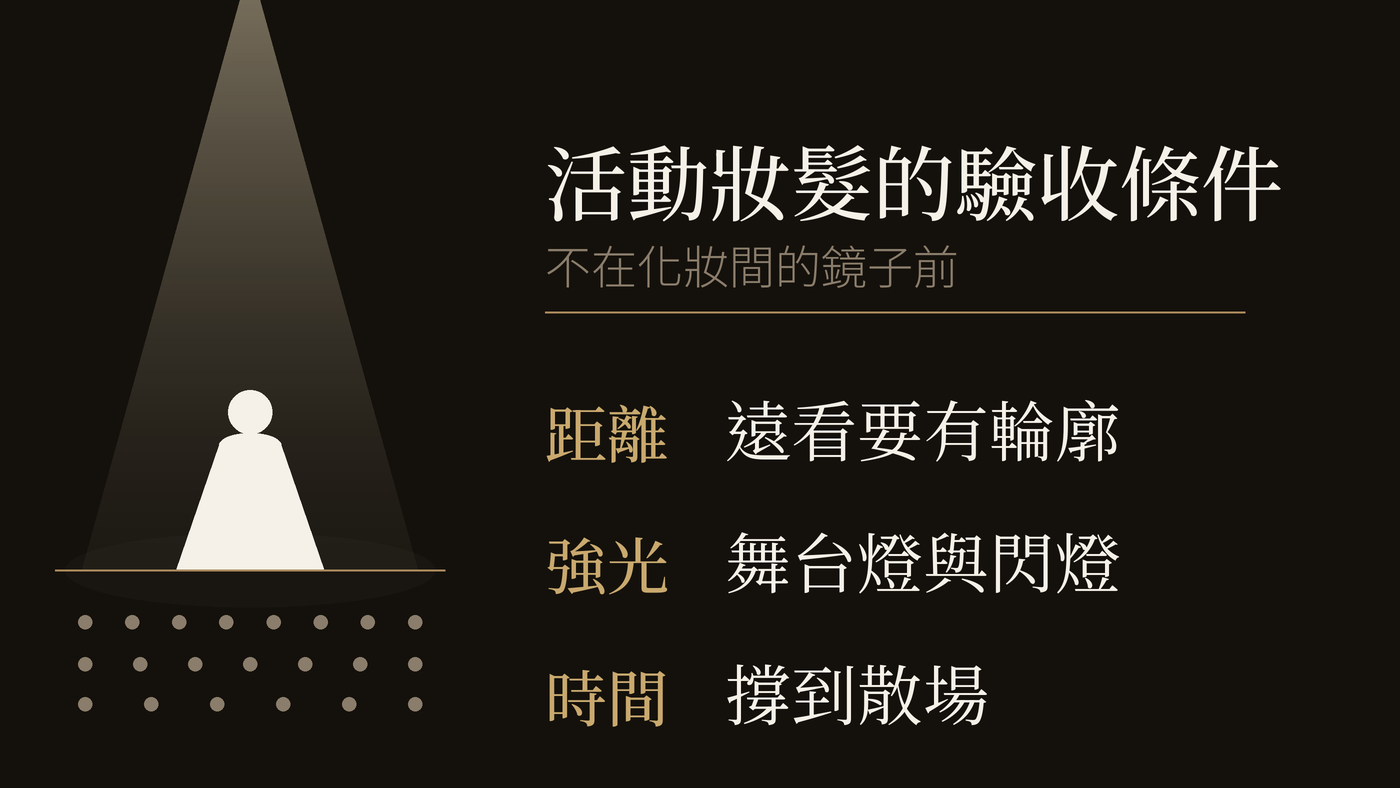
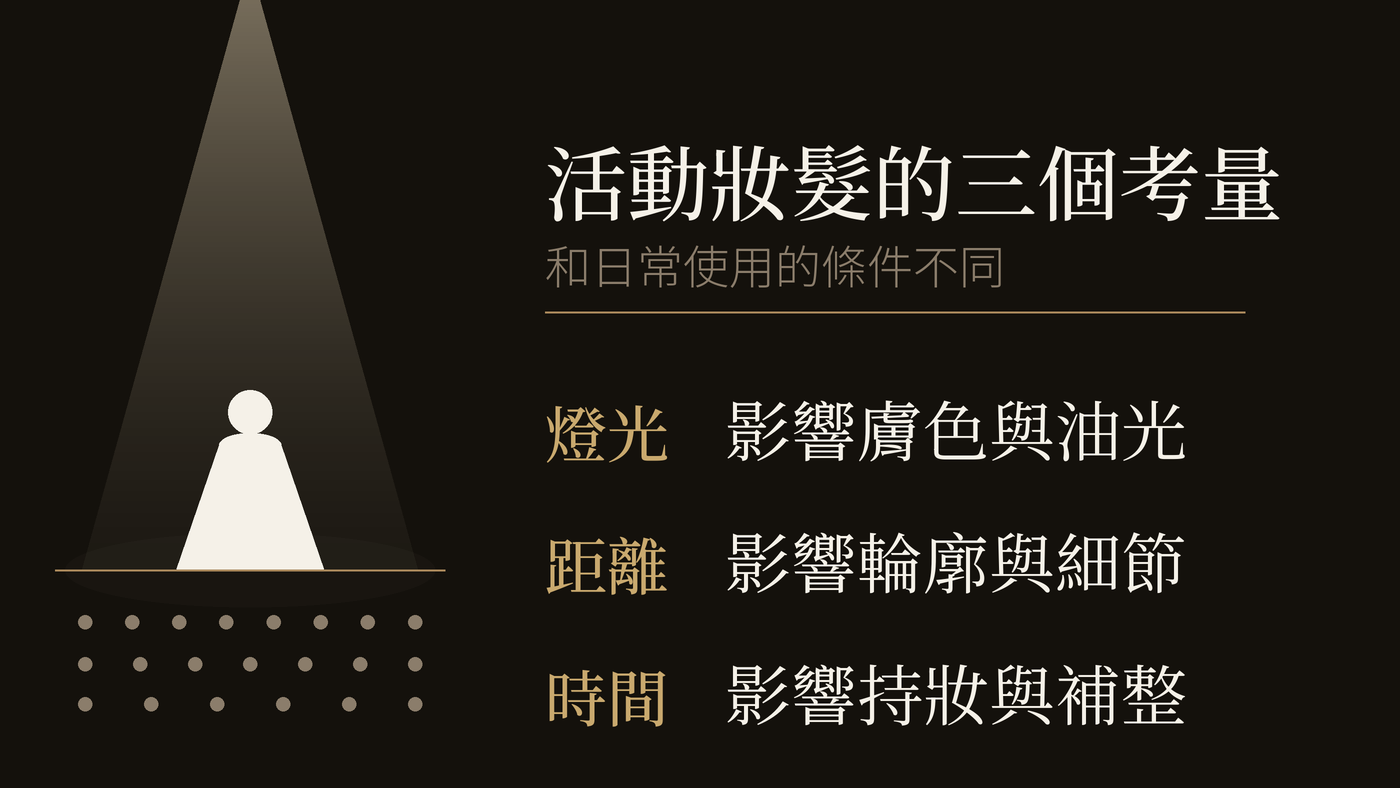
journal(B2)：三篇全面具體化，抽象結果詞換成實際處理的細節
09/04 第二份審閱，這份是對的：它依據我下午產的校稿檔寫，點名 18 項有 16 項
命中。（同日早上那份點名 18 個詞有 16 個根本不存在，只能採納 4 項。）

指南篇
- 開場刪「同樣的一張臉／三套完全不同的邏輯／這張臉接下來要去哪裡工作／
  你付的每一分鐘」，改成直接說要先知道場合
- 比較表整張重做：誰會看到你／距離與燈光／要撐多久／設計邏輯 → 常見場合／
  主要觀看方式／時間考量／主要處理
- 「距離愈遠燈光愈強…觀看者愈專業愈近」的對仗假對立整段換掉
- 預約段刪掉品牌敘事（妝髮是形象系統的一環／B.room 掛在 CHUN.EN 之下），
  與本篇搜尋意圖無關
- H2、引文、圖說、四題 FAQ 全改

商務篇
- 開場刪情境劇（追了半年的客戶／投資人／交給運氣／從運氣變成設計）
- 刪「遮疲態／留質地／收得剛好」整套框架與「狀態雜訊／熬夜的證據／面具感／
  最高級的修飾」，改成實際處理的位置
- 場合表的「為什麼值得」改成「需要多考慮什麼」，刪「對方正在評估可不可靠／
  鏡頭放大一切／妝髮是地基」
- 男士段刪「氣色處理的是把疲態調勻／眉型影響表情明確度」，改成看得到的細節

活動篇
- 開場刪整段尾牙情境劇
- 三條件表**刪掉「設計對策」整欄**（結構要放大／抗閃燈配方／修容補回被光吃掉的
  立體／持妝結構分層做底／撐到散場），改成「考量 × 實際影響」兩欄
- 「統籌題不是人數題」與企業排程細節（壓軸等六小時／濃淡對齊／時程表／
  風格規範／現場動線）收成交付層級的描述
- H2「三個物理條件怎麼改寫妝髮邏輯」→「還要多考慮三件事」

⚠ 示意圖跟著重畫：舊圖寫「驗收條件／距離·強光·時間」是文章的舊框架，
改完內文就對不上了。新圖＝燈光／距離／時間 × 影響什麼，ALT 同步。
標題一度寫成「活動妝髮要多考慮的」結尾懸在助詞上，已改「活動妝髮的三個考量」。
產圖腳本註明版面上限 9 字。

📌 我 08/25 拒絕過「設計對策」那一欄，當時引公開邊界文件說「深度是差異化」。
那個理由回答的是會不會洩漏方法，回答不了這份審閱的問題——它講的是不要把普通
事情講得比事情本身複雜，那是可讀性。我拿錯理由擋了一次。

三篇 FAQ 與 schema 全部同步，prepublish 0 必修。三篇仍 noindex。

diff --git a/journal/hair-makeup-service-guide.html b/journal/hair-makeup-service-guide.html
@@ -5,14 +5,14 @@
   <meta name="viewport" content="width=device-width, initial-scale=1.0, viewport-fit=cover" />
   <meta name="robots" content="noindex" /><!-- 草稿：Kay 審核後移除此行＋掛列表頁＋入 sitemap -->
   <title>台中妝髮怎麼選？日常妝髮、商務妝髮、活動妝髮差在哪｜CHUN.EN 觀點</title>
-  <meta name="description" content="同樣是「化妝＋做頭髮」，為什麼分成日常妝髮、商務妝髮、活動妝髮？因為妝髮的設計邏輯由場合決定：誰會看到你、距離多遠、燈光如何、要撐多久。日常妝髮標準服務時間約 90 分鐘，商務妝髮約 120 分鐘，活動妝髮約 150 分鐘，預約之前先分清楚。" />
+  <meta name="description" content="日常妝髮、商務妝髮與活動妝髮差在哪？主要看這次要去什麼場合、會不會拍攝，以及妝髮需要維持多久。日常妝髮標準服務時間約 90 分鐘，商務妝髮約 120 分鐘，活動妝髮約 150 分鐘，預約之前先分清楚。" />
   <meta name="theme-color" content="#14100B" />
   <link rel="icon" href="/favicon.ico" sizes="48x48" />
   <link rel="icon" href="/favicon-32.png" type="image/png" sizes="32x32" />
   <link rel="apple-touch-icon" href="/apple-touch-icon.png" />
   <link rel="canonical" href="https://chunen.tw/journal/hair-makeup-service-guide.html" />
   <meta property="og:title" content="台中妝髮怎麼選？日常妝髮、商務妝髮、活動妝髮差在哪" />
-  <meta property="og:description" content="妝髮的設計邏輯由場合決定：誰會看到你、距離多遠、燈光如何、要撐多久。" />
+  <meta property="og:description" content="場合、是否需要拍攝，以及要維持多久，決定了妝髮的做法。" />
   <meta property="og:image" content="https://chunen.tw/assets/og/hair-makeup-service-guide-og.jpg" />
   <meta property="og:image:width" content="1200" />
   <meta property="og:image:height" content="630" />
@@ -21,7 +21,7 @@
   <meta property="og:locale" content="zh_TW" />
   <meta name="twitter:card" content="summary_large_image" />
   <meta name="twitter:title" content="台中妝髮怎麼選？" />
-  <meta name="twitter:description" content="妝髮的設計邏輯由場合決定。預約之前先分清楚。" />
+  <meta name="twitter:description" content="場合、拍攝與維持時間，決定妝髮的做法。" />
   <meta name="twitter:image" content="https://chunen.tw/assets/og/hair-makeup-service-guide-og.jpg" />
   <link rel="preconnect" href="https://fonts.googleapis.com" />
   <link rel="preconnect" href="https://fonts.gstatic.com" crossorigin />
@@ -83,54 +83,55 @@
       <div class="keypoints rv">
         <p class="kp-t">In This Article · 本文重點</p>
         <ul>
-          <li>妝髮不是只有「濃淡」一個變數，場合決定了設計邏輯</li>
-          <li>三個問題分清楚你要哪一種：誰會看到你？距離多遠、什麼燈光？要撐多久？</li>
-          <li>預約時把場合講清楚，妝髮老師才能把時間花在對的地方</li>
+          <li>日常、商務與活動妝髮的差別，主要在使用場合、拍攝需求與需要維持的時間</li>
+          <li>聚會、簡報與舞台活動，妝感、髮型與持妝的處理方式不一樣</li>
+          <li>預約時提供場合、時間與是否需要拍攝，就能安排較適合的妝髮方式</li>
         </ul>
       </div>
 
       <div class="article-body rv">
-        <p class="article-lead">「我要預約化妝＋做頭髮。」，這句話對妝髮老師來說，其實是一句還沒說完的話。同樣的一張臉，要出席午餐約會、要進董事會簡報、還是要站上千人年會的舞台，妝髮的做法是三套完全不同的邏輯。<strong>妝髮服務分成日常、商務、活動三種，不是分價格等級，是分「這張臉接下來要去哪裡工作」。</strong>預約前分清楚，你付的每一分鐘才會花在對的地方。</p>
-        <p>台中妝髮服務可以依使用情境分成日常妝髮、商務妝髮與活動妝髮，差異主要在場合、觀看與拍攝條件、持妝需求，以及造型內容。答案不同，做法就不同，這也是預約時最值得先講清楚的事。</p>
+        <p class="article-lead">「我要預約化妝＋做頭髮。」對造型師來說，還需要再知道這次要去什麼場合。</p>
+        <p><strong>午餐約會、董事會簡報和年會舞台，對妝感、燈光、持妝與髮型的要求都不同。</strong>B.room 因此依使用情境區分日常、商務與活動妝髮，預約時先確認場合，再安排適合的做法。</p>
+        <p>台中妝髮服務可以依使用情境分成日常妝髮、商務妝髮與活動妝髮。差異主要在場合、是否需要拍攝、妝髮需要維持多久，以及造型內容。</p>
 
-        <h2>先問三個問題：場合如何<em>決定妝髮</em></h2>
-        <p>三種妝髮的差異，可以用三個問題拆出來：</p>
+        <h2>三種妝髮，<em>先看這三件事</em></h2>
+        <p>要分清楚自己需要哪一種，先看三件事：這次是什麼場合、主要是近距離還是舞台與鏡頭、妝髮需要維持多久。</p>
         <div class="tbl-scroll">
         <table>
-          <thead><tr><th></th><th>日常妝髮</th><th>商務妝髮</th><th>活動妝髮</th></tr></thead>
+          <thead><tr><th>項目</th><th>日常妝髮</th><th>商務妝髮</th><th>活動妝髮</th></tr></thead>
           <tbody>
-            <tr><td>誰會看到你</td><td>親友、日常社交</td><td>客戶、同事、與會者、鏡頭</td><td>台下觀眾、攝影機、媒體</td></tr>
-            <tr><td>距離與燈光</td><td>近距離、自然光</td><td>會議室距離、辦公室光與螢幕鏡頭</td><td>舞台距離、強光與閃燈</td></tr>
-            <tr><td>要撐多久</td><td>數小時</td><td>較長時間，中途未必有空檔補整</td><td>整場活動＋事後合照</td></tr>
-            <tr><td>設計邏輯</td><td>好看、像你</td><td>正式程度、精神、無妝感的整齊</td><td>遠看有輪廓、近拍經得起細看、上鏡不出油光</td></tr>
+            <tr><td>常見場合</td><td>聚會、約會、一般會面</td><td>簡報、會議、採訪、工作拍攝</td><td>講座、頒獎、品牌活動、晚宴</td></tr>
+            <tr><td>主要觀看方式</td><td>多為近距離</td><td>近距離互動，也可能有鏡頭</td><td>舞台、攝影與不同觀看距離</td></tr>
+            <tr><td>時間考量</td><td>一般出席時間</td><td>依工作行程與拍攝需求</td><td>依活動時間與流程</td></tr>
+            <tr><td>主要處理</td><td>膚況、眉眼、自然妝感、髮型</td><td>膚況、油光、眉眼、髮型輪廓、持妝</td><td>燈光、攝影、輪廓、髮型穩定與補整</td></tr>
             <tr><td>標準服務時間</td><td>約 90 分鐘</td><td>約 120 分鐘</td><td>約 150 分鐘</td></tr>
           </tbody>
         </table>
         </div>
-        <p>看懂了嗎，<strong>距離愈遠、燈光愈強，妝的結構就要愈明確；觀看者愈專業、愈近，妝就要收得愈乾淨。</strong>拿日常妝髮的做法上舞台，遠處的觀眾看到的是一張沒有輪廓的臉；拿舞台妝的做法進會議室，對面的客戶只會注意到你的妝。都不是老師手藝的問題，是設計邏輯用錯了場合。</p>
-        <blockquote>妝髮的分類不是分價格，是分「這張臉接下來要去哪裡工作」。</blockquote>
+        <p><strong>觀看距離、燈光與拍攝方式不同，妝髮的處理也會跟著改變。</strong>舞台要考慮遠距離與強光，商務場合則比較常是近距離互動或鏡頭拍攝，因此妝面、輪廓與髮型不會用完全相同的做法。</p>
+        <blockquote>日常、商務與活動妝髮的差別，在於使用場合與實際需求。</blockquote>
 
-        <h2>三種服務，各自<em>在解什麼</em></h2>
-        <p><strong>日常妝髮</strong>解的是「今天要好看」：聚會、約會、紀念日、私人拍攝。邏輯以你的喜好為主，風格可以玩，重點是像你、而且是狀態好的你。標準服務時間約 90 分鐘，依你的狀態、當天服裝與喜好完成妝髮。</p>
-        <p><strong>商務妝髮</strong>處理的是工作場合下的膚況、輪廓、髮型與持妝需求：重要簡報、面試、董事會、媒體採訪、<a href="makeup-hair-for-portraits.html">形象照拍攝</a>。邏輯以場合為主，遮疲態、留質地、收得剛好，目標是讓人先注意到你的狀態，而不是你的妝。標準服務時間約 120 分鐘，多出來的半小時花在鏡頭、燈光、工作時長與髮型細節的確認上。細節我們在〈<a href="business-hair-makeup.html">商務妝髮是什麼</a>〉單獨談。</p>
-        <p><strong>活動妝髮</strong>解的是「今天要撐住舞台」：年會尾牙、頒獎典禮、記者會、產品發表。邏輯以燈光與距離為主，結構要立體、持妝要整天、還要通得過閃光燈的考驗。標準服務時間約 150 分鐘，依造型複雜度、活動內容與是否需要現場補整微調。細節見〈<a href="event-hair-makeup.html">活動妝髮：上台之前的最後一關</a>〉。</p>
+        <h2>日常、商務、活動，<em>實際差在哪裡</em></h2>
+        <p><strong>日常妝髮</strong>主要用在聚會、約會、紀念日與一般出席。會依本人喜好、服裝與當天場合調整膚況、眉眼與髮型，標準服務時間約 90 分鐘。</p>
+        <p><strong>商務妝髮</strong>處理的是工作場合下的膚況、輪廓、髮型與持妝需求：重要簡報、面試、董事會、媒體採訪、<a href="makeup-hair-for-portraits.html">形象照拍攝</a>。除了膚況與眉眼，還會一起考慮油光、妝面質地、髮型輪廓與持妝，標準服務時間約 120 分鐘。細節我們在〈<a href="business-hair-makeup.html">商務妝髮是什麼</a>〉單獨談。</p>
+        <p><strong>活動妝髮</strong>常見於年會尾牙、頒獎典禮、記者會與產品發表。會依服裝、舞台燈光、攝影、活動時間與是否需要補整調整造型，標準服務時間約 150 分鐘。細節見〈<a href="event-hair-makeup.html">活動妝髮：上台之前的最後一關</a>〉。</p>
 
-        <h2>預約時，把這三件事<em>講清楚</em></h2>
-        <p>分類是我們的工作，你只需要在預約時講清楚三件事：<strong>什麼場合</strong>（開會？上台？拍攝？）、<strong>什麼時間到什麼時間</strong>（妝要撐多久、中途能不能補）、<strong>之後還有沒有下一場</strong>（白天簡報＋晚上晚宴，把兩場時間都講清楚，怎麼銜接由老師依妝況與活動內容安排）。這三件事決定了老師的產品選擇、手法與時間配置，講得愈清楚，你坐上椅子之後的每一分鐘愈值錢。</p>
-        <p>在 <a href="../b-room.html">B.room</a>，預約時我們會先確認場合、時間，以及當天是否還有其他行程，再安排適合的妝髮方式。我們的立場一直沒變：<strong>妝髮是形象系統的一環，不是單獨的美容項目</strong>，它要跟你的服裝、你的場合、你要傳遞的角色一起被設計。這也是為什麼 B.room 掛在 CHUN.EN 形象美學之下，而不是一間獨立的化妝室。</p>
+        <h2>預約時<em>要提供什麼</em></h2>
+        <p>預約時提供場合、活動時間，以及當天是否還有其他行程即可。如果同一天有簡報和晚宴，也可以一起說明，我們會依行程與當下妝況安排適合的方式。</p>
+        <p>實際的服務內容與時間，會在 <a href="../b-room.html">B.room</a> 預約時一併確認。</p>
 
         <figure class="article-fig crop45">
           <picture style="display:block"><source type="image/webp" srcset="../assets/gallery/journal/hair-makeup-service-guide-inline-v1-760.webp 760w, ../assets/gallery/journal/hair-makeup-service-guide-inline-v1-1240.webp 1240w" sizes="(max-width: 700px) calc(100vw - 40px), 620px" /><img src="../assets/gallery/journal/hair-makeup-service-guide-inline-v1-1400.jpg" alt="妝髮進行中的工作現場：客戶在鏡台前，造型師正在調整髮流" width="1400" height="1867" loading="lazy" /></picture>
-          <figcaption>同一張臉，三種場合，三套邏輯，設計對了，妝才會替你工作。（CHUN.EN 工作現場）</figcaption>
+          <figcaption>B.room 依不同場合調整妝感與髮型。（CHUN.EN 工作現場）</figcaption>
         </figure>
 
         <h2>常見<em>問題</em></h2>
         <div class="faq">
-          <details><summary>台中妝髮服務怎麼選？日常、商務、活動差在哪？<span class="mark">+</span></summary><div class="a">三種不是價格等級，而是這張臉接下來要去哪裡工作。先問三個問題就能分清楚：誰會看到你、距離多遠與什麼燈光、要撐多久。午餐約會、董事會簡報、千人年會舞台，妝髮是三套完全不同的設計邏輯。</div></details>
+          <details><summary>台中妝髮服務怎麼選？日常、商務、活動差在哪？<span class="mark">+</span></summary><div class="a">日常、商務與活動妝髮主要依使用場合區分。聚會與一般出席多屬日常妝髮；簡報、會議、採訪與工作拍攝多屬商務妝髮；講座、頒獎、品牌活動與晚宴則較常使用活動妝髮。</div></details>
           <details><summary>一次妝髮要做多久？<span class="mark">+</span></summary><div class="a">日常妝髮標準服務時間約 90 分鐘，商務妝髮約 120 分鐘，活動妝髮約 150 分鐘。商務場合多出來的時間花在鏡頭、燈光、工作時長與髮型細節的確認上；活動妝髮則會依造型複雜度與現場流程微調。若需要的是舞台、主題性或特殊造型，屬於主題妝髮造型的範圍，時間與內容另外溝通。企業團體梳化依人數與現場流程另行安排。</div></details>
-          <details><summary>我不確定自己的場合算哪一種，怎麼辦？<span class="mark">+</span></summary><div class="a">直接把場合描述給我們就好，「下週三早上對投資人簡報，下午有媒體拍照」這樣一句話，就足以讓我們判斷該用哪套邏輯、需要多少時間。分類是內部的設計語言，不是要你先學會的術語。</div></details>
-          <details><summary>男士也適用這三種分類嗎？<span class="mark">+</span></summary><div class="a">完全適用。男士商務妝髮的重點不在「有沒有化妝」，而是膚色均勻度、眉型、髮型輪廓與油光控制，做完通常看不出上過妝。上台與上鏡的男士尤其需要，強光下的疲態與油光比女士更無所遁形。</div></details>
-          <details><summary>可以到府或到公司服務嗎？<span class="mark">+</span></summary><div class="a">三種都可以在勤美店或你指定的地點完成。商務與活動場合的時間壓力最大，通常也最適合到點服務，在你的辦公室或活動後台完成，省去移動風險。實際的到點範圍、交通與開始時間，在預約時一併確認。</div></details>
+          <details><summary>我不確定自己的場合算哪一種，怎麼辦？<span class="mark">+</span></summary><div class="a">直接告訴我們場合、時間，以及是否有拍攝或下一場行程即可，我們會再確認適合的服務類型與時間。</div></details>
+          <details><summary>男士也適用這三種分類嗎？<span class="mark">+</span></summary><div class="a">男士也可以依場合安排日常、商務或活動妝髮。常見處理包括膚色不均、油光、眉型與髮型輪廓；需要拍攝或上台時，再依現場燈光與鏡頭需求調整。多數情況會以自然、看不出明顯妝感為主。</div></details>
+          <details><summary>可以到府或到公司服務嗎？<span class="mark">+</span></summary><div class="a">可以在勤美店或指定地點服務。若希望在公司、活動場地或其他指定地點完成妝髮，預約時提供地點與正式行程時間，我們會再確認服務範圍、交通與開始時間。</div></details>
         </div>
 
       </div>
@@ -179,7 +180,7 @@
     "@context": "https://schema.org",
     "@type": "Article",
     "headline": "台中妝髮怎麼選？日常妝髮、商務妝髮、活動妝髮差在哪",
-    "description": "妝髮的設計邏輯由場合決定：誰會看到你、距離多遠、燈光如何、要撐多久。三種妝髮服務的分類指南。",
+    "description": "場合、是否需要拍攝，以及要維持多久，決定了妝髮的做法。三種妝髮服務的分類指南。",
     "image": "https://chunen.tw/assets/gallery/journal/hair-makeup-service-guide-hero-full-v1-1400.jpg",
     "author": {"@type": "Person", "@id": "https://chunen.tw/author/zoey-wu.html#zoey", "name": "吳惇恩", "alternateName": "Zoey Wu", "jobTitle": "Founder & Brand Director", "image": "https://chunen.tw/assets/images/zoey-author-640.jpg", "url": "https://chunen.tw/author/zoey-wu.html"},
     "publisher": {"@type": "Organization", "@id": "https://chunen.tw/#business", "name": "CHUN.EN 形象美學", "logo": {"@type": "ImageObject", "url": "https://chunen.tw/icon-512.png"}},
@@ -198,11 +199,11 @@
     "@context": "https://schema.org",
     "@type": "FAQPage",
     "mainEntity": [
-      {"@type": "Question", "name": "台中妝髮服務怎麼選？日常、商務、活動差在哪？", "acceptedAnswer": {"@type": "Answer", "text": "三種不是價格等級，而是這張臉接下來要去哪裡工作。先問三個問題就能分清楚：誰會看到你、距離多遠與什麼燈光、要撐多久。午餐約會、董事會簡報、千人年會舞台，妝髮是三套完全不同的設計邏輯。"}},
+      {"@type": "Question", "name": "台中妝髮服務怎麼選？日常、商務、活動差在哪？", "acceptedAnswer": {"@type": "Answer", "text": "日常、商務與活動妝髮主要依使用場合區分。聚會與一般出席多屬日常妝髮；簡報、會議、採訪與工作拍攝多屬商務妝髮；講座、頒獎、品牌活動與晚宴則較常使用活動妝髮。"}},
       {"@type": "Question", "name": "一次妝髮要做多久？", "acceptedAnswer": {"@type": "Answer", "text": "日常妝髮標準服務時間約 90 分鐘，商務妝髮約 120 分鐘，活動妝髮約 150 分鐘。商務場合多出來的時間花在鏡頭、燈光、工作時長與髮型細節的確認上；活動妝髮則會依造型複雜度與現場流程微調。若需要的是舞台、主題性或特殊造型，屬於主題妝髮造型的範圍，時間與內容另外溝通。企業團體梳化依人數與現場流程另行安排。"}},
-      {"@type": "Question", "name": "我不確定自己的場合算哪一種，怎麼辦？", "acceptedAnswer": {"@type": "Answer", "text": "直接把場合描述給我們就好，「下週三早上對投資人簡報，下午有媒體拍照」這樣一句話，就足以讓我們判斷該用哪套邏輯、需要多少時間。分類是內部的設計語言，不是要你先學會的術語。"}},
-      {"@type": "Question", "name": "男士也適用這三種分類嗎？", "acceptedAnswer": {"@type": "Answer", "text": "完全適用。男士商務妝髮的重點不在「有沒有化妝」，而是膚色均勻度、眉型、髮型輪廓與油光控制，做完通常看不出上過妝。上台與上鏡的男士尤其需要，強光下的疲態與油光比女士更無所遁形。"}},
-      {"@type": "Question", "name": "可以到府或到公司服務嗎？", "acceptedAnswer": {"@type": "Answer", "text": "三種都可以在勤美店或你指定的地點完成。商務與活動場合的時間壓力最大，通常也最適合到點服務，在你的辦公室或活動後台完成，省去移動風險。實際的到點範圍、交通與開始時間，在預約時一併確認。"}}
+      {"@type": "Question", "name": "我不確定自己的場合算哪一種，怎麼辦？", "acceptedAnswer": {"@type": "Answer", "text": "直接告訴我們場合、時間，以及是否有拍攝或下一場行程即可，我們會再確認適合的服務類型與時間。"}},
+      {"@type": "Question", "name": "男士也適用這三種分類嗎？", "acceptedAnswer": {"@type": "Answer", "text": "男士也可以依場合安排日常、商務或活動妝髮。常見處理包括膚色不均、油光、眉型與髮型輪廓；需要拍攝或上台時，再依現場燈光與鏡頭需求調整。多數情況會以自然、看不出明顯妝感為主。"}},
+      {"@type": "Question", "name": "可以到府或到公司服務嗎？", "acceptedAnswer": {"@type": "Answer", "text": "可以在勤美店或指定地點服務。若希望在公司、活動場地或其他指定地點完成妝髮，預約時提供地點與正式行程時間，我們會再確認服務範圍、交通與開始時間。"}}
     ]
   }
   </script>

diff --git a/journal/event-hair-makeup.html b/journal/event-hair-makeup.html
@@ -5,14 +5,14 @@
   <meta name="viewport" content="width=device-width, initial-scale=1.0, viewport-fit=cover" />
   <meta name="robots" content="noindex" /><!-- 草稿：Kay 審核後移除此行＋掛列表頁＋入 sitemap -->
   <title>活動妝髮：上台之前的最後一關｜CHUN.EN 觀點</title>
-  <meta name="description" content="年會尾牙、頒獎典禮、記者會、產品發表，活動妝髮要處理的是舞台燈、攝影機與長時間的續航。談活動妝髮和日常妝的三個本質差異：距離、強光、時間，以及企業活動的妝髮統籌怎麼安排。" />
+  <meta name="description" content="活動妝髮常見於年會尾牙、頒獎、記者會、品牌發表與講座。相較日常妝髮，會多考慮舞台燈、攝影、觀看距離、活動時間與是否需要補整。標準服務時間約 150 分鐘。" />
   <meta name="theme-color" content="#14100B" />
   <link rel="icon" href="/favicon.ico" sizes="48x48" />
   <link rel="icon" href="/favicon-32.png" type="image/png" sizes="32x32" />
   <link rel="apple-touch-icon" href="/apple-touch-icon.png" />
   <link rel="canonical" href="https://chunen.tw/journal/event-hair-makeup.html" />
   <meta property="og:title" content="活動妝髮：上台之前的最後一關" />
-  <meta property="og:description" content="活動妝髮要處理的是舞台燈、攝影機與長時間的續航。" />
+  <meta property="og:description" content="活動妝髮會多考慮舞台燈、攝影、觀看距離與活動時間。" />
   <meta property="og:image" content="https://chunen.tw/assets/gallery/journal/event-hair-makeup-diagram-v1-1400.png" />
   <meta property="og:image:width" content="1400" />
   <meta property="og:image:height" content="788" />
@@ -21,7 +21,7 @@
   <meta property="og:locale" content="zh_TW" />
   <meta name="twitter:card" content="summary_large_image" />
   <meta name="twitter:title" content="活動妝髮：上台之前的最後一關" />
-  <meta name="twitter:description" content="活動妝髮要處理的是舞台燈、攝影機與長時間的續航。" />
+  <meta name="twitter:description" content="活動妝髮會多考慮舞台燈、攝影、觀看距離與活動時間。" />
   <meta name="twitter:image" content="https://chunen.tw/assets/gallery/journal/event-hair-makeup-diagram-v1-1400.png" />
   <link rel="preconnect" href="https://fonts.googleapis.com" />
   <link rel="preconnect" href="https://fonts.gstatic.com" crossorigin />
@@ -77,47 +77,48 @@
 
     <div class="wrap article-wrap">
       <div class="jcard-media rv" style="aspect-ratio: 16/9; overflow: hidden; margin-bottom: clamp(2.5rem, 6vh, 4rem);">
-        <picture style="display:block;width:100%;height:100%"><source type="image/webp" srcset="../assets/gallery/journal/event-hair-makeup-diagram-v1-760.webp 760w, ../assets/gallery/journal/event-hair-makeup-diagram-v1-1240.webp 1240w" sizes="min(940px, calc(100vw - 48px))" /><img src="../assets/gallery/journal/event-hair-makeup-diagram-v1-1400.png" alt="示意圖：活動妝髮的驗收條件不在化妝間的鏡子前，而在距離、強光與時間三個物理條件上" style="width:100%;height:100%;object-fit:cover;" width="1400" height="788" fetchpriority="high" /></picture>
+        <picture style="display:block;width:100%;height:100%"><source type="image/webp" srcset="../assets/gallery/journal/event-hair-makeup-diagram-v1-760.webp 760w, ../assets/gallery/journal/event-hair-makeup-diagram-v1-1240.webp 1240w" sizes="min(940px, calc(100vw - 48px))" /><img src="../assets/gallery/journal/event-hair-makeup-diagram-v1-1400.png" alt="示意圖：活動妝髮的三個考量，燈光、距離與時間" style="width:100%;height:100%;object-fit:cover;" width="1400" height="788" fetchpriority="high" /></picture>
       </div>
 
       <div class="keypoints rv">
         <p class="kp-t">In This Article · 本文重點</p>
         <ul>
-          <li>活動妝髮多出三個要處理的物理條件：距離、強光、時間</li>
-          <li>近距離看剛好的妝，到了舞台與鏡頭前呈現會改變</li>
-          <li>企業活動（尾牙、年會、記者會）的妝髮是統籌題，不是人數題</li>
+          <li>活動妝髮會多考慮燈光、攝影、觀看距離與活動時間</li>
+          <li>近距離看起來剛好的妝髮，到了舞台或鏡頭前不一定是同樣效果</li>
+          <li>企業團體妝髮除了人數，也要一起確認流程、完成時間與現場條件</li>
         </ul>
       </div>
 
       <div class="article-body rv">
-        <p class="article-lead">每年尾牙季都會重演同一個場景：台上的主管妝容精緻，在化妝間的鏡子裡。走上舞台，強光打下來，遠處的觀眾看到的是一張偏白而扁平的臉；閃光燈一亮，額頭反著光；活動進行到後段，妝的狀態通常也開始下滑。<strong>不是妝化壞了，是日常的邏輯本來就不是為舞台設計的。</strong>活動妝髮之所以是獨立的一門專業，因為它要同時處理距離、強光與時間這三個物理條件。</p>
-        <p>活動妝髮，是為講座、頒獎典禮、品牌發表、尾牙年會等活動情境設計的妝髮服務。造型會依服裝、現場燈光、攝影需求、活動時間與是否需要補整調整。同一張臉在遠距離或鏡頭裡容易失去立體感，所以結構、對比與續航都要重新做一次判斷，這也是它和日常、商務妝髮最大的差別。標準服務時間約 150 分鐘。</p>
+        <p class="article-lead">平常近距離看起來剛好的妝髮，到了舞台上不一定還是同樣的效果。</p>
+        <p><strong>活動現場多了舞台燈、攝影、不同的觀看距離，以及較長的活動時間</strong>，因此妝面、輪廓、髮型與持妝都需要重新確認。</p>
+        <p>活動妝髮，是為講座、頒獎、品牌發表、尾牙年會等活動場合準備的妝髮服務。會依服裝、燈光、攝影、活動時間與是否需要補整調整妝面與髮型。標準服務時間約 150 分鐘。</p>
 
-        <h2>三個物理條件，怎麼<em>改寫妝髮邏輯</em></h2>
+        <h2>活動妝髮<em>還要多考慮三件事</em></h2>
         <div class="tbl-scroll">
         <table>
-          <thead><tr><th>條件</th><th>它做了什麼</th><th>設計對策</th></tr></thead>
+          <thead><tr><th>考量</th><th>實際影響</th></tr></thead>
           <tbody>
-            <tr><td>觀看與拍攝距離</td><td>近看剛好的妝，在遠處與鏡頭裡容易失去輪廓</td><td>結構要放大，眉、眼、唇的明確度依觀看距離校準，近看略強、台下剛好</td></tr>
-            <tr><td>強光與閃燈</td><td>舞台燈洗掉血色與立體感；閃光燈讓含反光粒子的產品「反白」</td><td>選品是專業門檻：抗閃燈配方、修容補回被光吃掉的立體</td></tr>
-            <tr><td>活動時間與流程</td><td>出油、脫妝、髮型垮塌，而你在台上沒有暫停鍵</td><td>持妝結構分層做底，髮型以「撐到散場」為標準設計，關鍵時點快速補整</td></tr>
+            <tr><td>燈光</td><td>會影響膚色、油光與妝面質感</td></tr>
+            <tr><td>拍攝與觀看距離</td><td>不同距離與鏡頭，看到的輪廓與細節不同</td></tr>
+            <tr><td>活動時間與流程</td><td>需要考慮持妝、髮型是否穩定，以及是否需要補整</td></tr>
           </tbody>
         </table>
         </div>
-        <p>看出關鍵了嗎：<strong>活動妝髮在化妝間裡看起來可能會比平常明顯一些，那是依觀看條件調整的結果，不是失手。</strong>它的驗收標準不在化妝間的鏡子前，而在台下遠處的座位、攝影師的觀景窗，以及散場前的最後一張合照裡。這跟〈<a href="makeup-hair-for-portraits.html">拍攝妝髮</a>〉的邏輯同源：妝是為觀看條件設計的，不是為鏡子。</p>
-        <blockquote>活動妝髮的驗收不在化妝間的鏡子前，而在台下遠處與攝影師的觀景窗裡。</blockquote>
+        <p><strong>活動妝髮不一定比日常妝更濃。</strong>是否需要加強輪廓，要看現場燈光、觀看距離與攝影方式；化妝間近看和舞台、照片裡的效果，本來就可能不同。這跟〈<a href="makeup-hair-for-portraits.html">拍攝妝髮</a>〉要處理的是同一件事。</p>
+        <blockquote>活動妝髮要同時考慮現場觀看與拍攝效果。</blockquote>
 
-        <h2>哪些場合是<em>活動妝髮的主場</em></h2>
-        <p><strong>年會尾牙與春酒</strong>：主持人、表演節目、上台頒獎的主管，整晚的舞台輪替，妝髮要能從開場撐到抽獎。<strong>頒獎典禮與正式晚宴</strong>：紅毯式的近拍與合照密度最高，閃光燈是主要考題。<strong>記者會與產品發表</strong>：媒體攝影機＋輸出到新聞版面，臉的狀態會被放大檢視並留下紀錄。<strong>講座與大型演講</strong>：站上大型講台之前，妝髮要一起考慮觀看距離與舞台燈光，這一題與〈<a href="speaker-trainer-portrait.html">講師形象照</a>〉是同一條線的兩端：照片先開課，妝髮陪你上台。</p>
+        <h2>哪些場合<em>常見活動妝髮需求</em></h2>
+        <p>常見包括年會尾牙、頒獎典禮、正式晚宴、記者會、產品發表與講座。不同場合的燈光、服裝、拍攝方式與活動時間不同，妝髮也會跟著調整。講座與大型演講這一題，與〈<a href="speaker-trainer-portrait.html">講師形象照</a>〉是同一條線的兩端。</p>
 
-        <h2>企業活動：妝髮是<em>統籌題</em>，不是人數題</h2>
-        <p>企業辦活動最常見的誤區，是把妝髮當成「找幾位老師來化幾顆頭」的人數題。實際上它是統籌題：<strong>上台的人依出場順序排妝髮時程</strong>（壓軸的主管不該最早化完等六小時）、<strong>視覺要一致</strong>（同台的主管群濃淡風格對齊，合照才像同一家公司，邏輯同〈<a href="clinic-image-consistency.html">團隊一致性工程</a>〉）、<strong>現場保留可以補整的時段</strong>。這也是為什麼我們的<a class="fl-m" href="../enterprise.html">企業合作</a>把年會妝髮統籌做成專案而不是散單：時程表、風格規範、現場動線一起設計，活動當天妝髮才不會變成後台的瓶頸。也因為如此，企業梳化的時間是以整體時程與人員配置回推，不是把單人的標準服務時間乘上人數。</p>
+        <h2>企業團體妝髮<em>怎麼安排</em></h2>
+        <p><strong>企業團體梳化除了人數，還要一起確認活動流程、完成時間、服裝與現場條件。</strong>B.room 會依專案安排造型師與梳化時程，因此<a class="fl-m" href="../enterprise.html">企業合作</a>不直接用單人的服務時間乘上人數。同台的視覺一致性，邏輯同〈<a href="clinic-image-consistency.html">團隊一致性工程</a>〉。</p>
 
         <h2>常見<em>問題</em></h2>
         <div class="faq">
-          <details><summary>活動妝髮要提前多久預約？服務時間怎麼抓？<span class="mark">+</span></summary><div class="a">個人場次建議活動前一至兩週預約（尾牙季與畢業季檔期最滿，請再提早）；當天依上台時間回推，完妝建議落在出場前一至兩小時內。標準服務時間約 150 分鐘，會依造型複雜度、活動內容與是否需要現場補整微調；若需要的是舞台、主題性或特殊造型，屬於主題妝髮造型的範圍，時間與內容另外溝通。企業統籌案建議活動前一個月開始排時程表與風格規範。</div></details>
-          <details><summary>我晚上有晚宴、白天還要上班，妝髮怎麼安排？<span class="mark">+</span></summary><div class="a">預約時把全天行程講清楚：下班時間、交通、換裝與進場時間，再依活動內容安排妝髮時段。如果白天已經有妝，也把目前妝況一併告知，由現場判斷是卸除重做、局部整理，或怎麼安排比較合適。</div></details>
-          <details><summary>台上有男主管，他們也需要嗎？<span class="mark">+</span></summary><div class="a">需要，而且舞台是男士最需要處理的場合：強光下的油光與疲態會被放大到全場都看得見。男士常見的處理是控油、膚色均勻度、眉型與髮型輪廓，做完通常看不出上過妝，但在攝影機下差別會比較明顯。</div></details>
+          <details><summary>活動妝髮要提前多久預約？服務時間怎麼抓？<span class="mark">+</span></summary><div class="a">活動日期確定後即可詢問檔期，熱門時段建議提早預約。標準服務時間約 150 分鐘，實際的服務與開始時間會依造型內容、活動流程、地點與是否需要補整確認；若需要的是舞台、主題性或特殊造型，屬於主題妝髮造型的範圍，時間與內容另外溝通。企業團體則依人數與現場流程另外安排。</div></details>
+          <details><summary>我晚上有晚宴、白天還要上班，妝髮怎麼安排？<span class="mark">+</span></summary><div class="a">預約時把全天行程一併說明：下班時間、交通、換裝與進場時間，再依活動內容安排妝髮時段。如果白天已經有妝，也可以一起說明，造型師會依當下妝況與晚間活動需求，判斷是否需要卸除重做、局部整理，或採其他較合適的方式。</div></details>
+          <details><summary>台上有男主管，他們也需要嗎？<span class="mark">+</span></summary><div class="a">男士也可以安排活動妝髮。常見處理包括油光、膚色不均、眉型與髮型輪廓；如果需要上台、錄影或拍照，再依現場燈光與攝影需求調整。通常會以自然、看不出明顯妝感為主。</div></details>
         </div>
 
       </div>
@@ -166,7 +167,7 @@
     "@context": "https://schema.org",
     "@type": "Article",
     "headline": "活動妝髮：上台之前的最後一關",
-    "description": "活動妝髮要處理三個物理條件：距離、強光、時間。日常妝髮的邏輯不是為舞台設計的；企業活動的妝髮除了人數，還要一起安排流程與時程。",
+    "description": "活動妝髮相較日常妝髮，會多考慮舞台燈、攝影、觀看距離、活動時間與是否需要補整；企業團體則要一起確認流程、完成時間與現場條件。",
     "image": "https://chunen.tw/assets/gallery/journal/event-hair-makeup-diagram-v1-1400.png",
     "author": {"@type": "Person", "@id": "https://chunen.tw/author/zoey-wu.html#zoey", "name": "吳惇恩", "alternateName": "Zoey Wu", "jobTitle": "Founder & Brand Director", "image": "https://chunen.tw/assets/images/zoey-author-640.jpg", "url": "https://chunen.tw/author/zoey-wu.html"},
     "publisher": {"@type": "Organization", "@id": "https://chunen.tw/#business", "name": "CHUN.EN 形象美學", "logo": {"@type": "ImageObject", "url": "https://chunen.tw/icon-512.png"}},
@@ -185,9 +186,9 @@
     "@context": "https://schema.org",
     "@type": "FAQPage",
     "mainEntity": [
-      {"@type": "Question", "name": "活動妝髮要提前多久預約？服務時間怎麼抓？", "acceptedAnswer": {"@type": "Answer", "text": "個人場次建議活動前一至兩週預約（尾牙季與畢業季檔期最滿，請再提早）；當天依上台時間回推，完妝建議落在出場前一至兩小時內。標準服務時間約 150 分鐘，會依造型複雜度、活動內容與是否需要現場補整微調；若需要的是舞台、主題性或特殊造型，屬於主題妝髮造型的範圍，時間與內容另外溝通。企業統籌案建議活動前一個月開始排時程表與風格規範。"}},
-      {"@type": "Question", "name": "我晚上有晚宴、白天還要上班，妝髮怎麼安排？", "acceptedAnswer": {"@type": "Answer", "text": "預約時把全天行程講清楚：下班時間、交通、換裝與進場時間，再依活動內容安排妝髮時段。如果白天已經有妝，也把目前妝況一併告知，由現場判斷是卸除重做、局部整理，或怎麼安排比較合適。"}},
-      {"@type": "Question", "name": "台上有男主管，他們也需要嗎？", "acceptedAnswer": {"@type": "Answer", "text": "需要，而且舞台是男士最需要處理的場合：強光下的油光與疲態會被放大到全場都看得見。男士常見的處理是控油、膚色均勻度、眉型與髮型輪廓，做完通常看不出上過妝，但在攝影機下差別會比較明顯。"}}
+      {"@type": "Question", "name": "活動妝髮要提前多久預約？服務時間怎麼抓？", "acceptedAnswer": {"@type": "Answer", "text": "活動日期確定後即可詢問檔期，熱門時段建議提早預約。標準服務時間約 150 分鐘，實際的服務與開始時間會依造型內容、活動流程、地點與是否需要補整確認；若需要的是舞台、主題性或特殊造型，屬於主題妝髮造型的範圍，時間與內容另外溝通。企業團體則依人數與現場流程另外安排。"}},
+      {"@type": "Question", "name": "我晚上有晚宴、白天還要上班，妝髮怎麼安排？", "acceptedAnswer": {"@type": "Answer", "text": "預約時把全天行程一併說明：下班時間、交通、換裝與進場時間，再依活動內容安排妝髮時段。如果白天已經有妝，也可以一起說明，造型師會依當下妝況與晚間活動需求，判斷是否需要卸除重做、局部整理，或採其他較合適的方式。"}},
+      {"@type": "Question", "name": "台上有男主管，他們也需要嗎？", "acceptedAnswer": {"@type": "Answer", "text": "男士也可以安排活動妝髮。常見處理包括油光、膚色不均、眉型與髮型輪廓；如果需要上台、錄影或拍照，再依現場燈光與攝影需求調整。通常會以自然、看不出明顯妝感為主。"}}
     ]
   }
   </script>

diff --git a/journal/business-hair-makeup.html b/journal/business-hair-makeup.html
@@ -5,14 +5,14 @@
   <meta name="viewport" content="width=device-width, initial-scale=1.0, viewport-fit=cover" />
   <meta name="robots" content="noindex" /><!-- 草稿：Kay 審核後移除此行＋掛列表頁＋入 sitemap -->
   <title>商務妝髮是什麼？簡報、會議、採訪前的妝髮準備｜CHUN.EN 觀點</title>
-  <meta name="description" content="重要簡報、面試、董事會、媒體採訪，商務妝髮解的不是「變好看」，是工作場合下的膚況、輪廓、髮型與持妝：遮疲態、留質地、收得剛好，讓人注意到的是你的狀態而不是你的妝。標準服務時間約 120 分鐘，談它的設計邏輯，以及男士常見的處理項目。" />
+  <meta name="description" content="商務妝髮是為簡報、會議、採訪與工作拍攝等場合準備的妝髮服務，主要整理膚況、油光、眉眼、妝面質地、髮型輪廓與持妝。B.room 標準服務時間約 120 分鐘，也整理男士常見的處理項目。" />
   <meta name="theme-color" content="#14100B" />
   <link rel="icon" href="/favicon.ico" sizes="48x48" />
   <link rel="icon" href="/favicon-32.png" type="image/png" sizes="32x32" />
   <link rel="apple-touch-icon" href="/apple-touch-icon.png" />
   <link rel="canonical" href="https://chunen.tw/journal/business-hair-makeup.html" />
   <meta property="og:title" content="商務妝髮是什麼？簡報與採訪前怎麼準備" />
-  <meta property="og:description" content="商務妝髮處理的是工作場合下的膚況、輪廓、髮型與持妝需求，讓人注意到的是你的狀態，而不是你的妝。" />
+  <meta property="og:description" content="為簡報、會議、採訪與工作拍攝準備：膚況、油光、眉眼、妝面質地、髮型輪廓與持妝。" />
   <meta property="og:image" content="https://chunen.tw/assets/og/business-hair-makeup-og.jpg" />
   <meta property="og:image:width" content="1200" />
   <meta property="og:image:height" content="630" />
@@ -21,7 +21,7 @@
   <meta property="og:locale" content="zh_TW" />
   <meta name="twitter:card" content="summary_large_image" />
   <meta name="twitter:title" content="商務妝髮是什麼？簡報與採訪前怎麼準備" />
-  <meta name="twitter:description" content="讓人注意到的是你的狀態，而不是你的妝。" />
+  <meta name="twitter:description" content="整理膚況、油光、眉眼、髮型輪廓與持妝。" />
   <meta name="twitter:image" content="https://chunen.tw/assets/og/business-hair-makeup-og.jpg" />
   <link rel="preconnect" href="https://fonts.googleapis.com" />
   <link rel="preconnect" href="https://fonts.gstatic.com" crossorigin />
@@ -83,50 +83,51 @@
       <div class="keypoints rv">
         <p class="kp-t">In This Article · 本文重點</p>
         <ul>
-          <li>「好看」與「工作場合合用」是兩套手法</li>
-          <li>設計三原則：遮疲態、留質地、收得剛好，讓人注意到的是你的狀態，不是你的妝</li>
-          <li>男士常見的處理是膚況、眉型、髮型輪廓與控油，目標是自然整齊</li>
+          <li>商務妝髮會比日常妝髮多考慮鏡頭、燈光、工作時間與持妝</li>
+          <li>常見處理包括膚色不均、眼下疲態、油光、眉型與髮型輪廓</li>
+          <li>男士以自然整理為主，多數情況不需要有明顯妝感</li>
         </ul>
       </div>
 
       <div class="article-body rv">
-        <p class="article-lead">想像明天早上有一場決定性的簡報：對方是你追了半年的客戶，或是決定你下一輪資金的投資人。你會提前一週改簡報、前一晚排練到深夜，但明天早上出門前的那張臉，多數人交給運氣：睡眠不足的氣色、自己抓的頭髮、和平常一樣的妝。<strong>商務妝髮，就是把「出門前的那兩個小時」從運氣變成設計</strong>：標準服務時間約 120 分鐘，在重要場合開始之前，讓一位專業者把膚況、輪廓與持妝一次整理到位。</p>
-        <p>商務妝髮是為簡報、採訪、拍攝這類近距離、長時間的場合做的：重點放在遮疲態、保留皮膚質地，以及在會議室或鏡頭的燈光下看起來狀態很好，而不是妝感明顯。標準服務時間約 120 分鐘。</p>
+        <p class="article-lead">重要簡報、客戶會議或媒體採訪前，很多人會先準備內容，妝髮則留到當天處理。</p>
+        <p><strong>商務妝髮做的，是在出發前把膚況、眉眼、髮型與持妝整理好</strong>，再依場合、工作時間與是否拍攝調整細節。B.room 的標準服務時間約 120 分鐘。</p>
+        <p>商務妝髮，是為簡報、會議、採訪與工作拍攝等場合準備的妝髮服務。除了整理膚況、眉眼與髮型，也會依鏡頭、燈光與工作時間調整妝面與持妝。</p>
 
-        <h2>「好看」與「工作場合合用」是<em>兩套手法</em></h2>
-        <p>日常妝髮的目標是好看，色彩可以玩、風格可以強，重點是你喜歡。商務妝髮處理的是工作場合下的條件，看的是幾個具體的地方：膚色均勻度、髮型輪廓的整齊，以及<strong>妝面的質地</strong>。近距離與鏡頭下的妝感如果太重，容易讓人先注意到妝本身。</p>
-        <p>所以 B.room 在商務妝髮中主要處理三件事：<strong>遮疲態</strong>（黑眼圈、暗沉、熬夜的證據，這些是狀態雜訊，不是你）、<strong>留質地</strong>（皮膚的真實質感保留，才不會在近距離與鏡頭下顯得面具感）、<strong>收得剛好</strong>（做完之後，別人只覺得你今天狀態真好，說不出你做了什麼）。這與我們在〈<a href="natural-look-by-design.html">為什麼自然需要設計</a>〉談的是同一門工藝：<strong>最高級的修飾，是看不出修飾。</strong></p>
-        <blockquote>商務妝髮做得好的時候，別人注意到的是你的狀態，不是你的妝。</blockquote>
+        <h2>商務妝髮和日常妝髮，<em>處理的重點有什麼不同</em></h2>
+        <p>日常妝髮可以較多依個人喜好與服裝調整；商務妝髮則會額外考慮近距離互動、鏡頭、燈光與持妝。<strong>實際處理的地方包括膚色均勻、油光、眉眼、妝面質地與髮型輪廓。</strong></p>
+        <p>B.room 在商務妝髮中，通常會先整理膚色不均、眼下疲態與容易出油的位置，再處理眉型、眼周與髮型輪廓。妝面會依近距離與鏡頭需求控制厚薄，盡量保留皮膚原本的質感。相關的做法在〈<a href="natural-look-by-design.html">為什麼自然需要設計</a>〉也談過。</p>
+        <blockquote>商務妝髮的重點，是把膚況、妝面與髮型整理到適合工作場合與鏡頭的程度。</blockquote>
 
         <h2>什麼場合值得<em>安排一次</em></h2>
         <div class="tbl-scroll">
         <table>
-          <thead><tr><th>場合</th><th>為什麼值得</th></tr></thead>
+          <thead><tr><th>場合</th><th>需要多考慮什麼</th></tr></thead>
           <tbody>
-            <tr><td>決定性簡報／提案</td><td>高壓下的疲態最誠實，而對方正在評估「這個人可不可靠」</td></tr>
-            <tr><td>面試／董事會／談判</td><td>近距離、長時間被注視，細節全都看得到</td></tr>
-            <tr><td>媒體採訪／錄影／直播</td><td>鏡頭放大一切，油光與暗沉在螢幕上加倍（參考〈<a href="on-camera-presence.html">視訊鏡頭裡的你</a>〉）</td></tr>
-            <tr><td>形象照拍攝</td><td>照片要用兩三年，妝髮是它的地基（見〈<a href="makeup-hair-for-portraits.html">妝髮：多濃、多正式</a>〉）</td></tr>
-            <tr><td>重要典禮與正式晚宴</td><td>介於商務與活動之間，依場合燈光調整配比</td></tr>
+            <tr><td>簡報／提案</td><td>近距離互動、持妝與髮型整齊度</td></tr>
+            <tr><td>面試／董事會／談判</td><td>膚況、油光、眉眼與長時間維持</td></tr>
+            <tr><td>採訪／錄影／直播</td><td>鏡頭、燈光、妝面質地與髮型輪廓（參考〈<a href="on-camera-presence.html">視訊鏡頭裡的你</a>〉）</td></tr>
+            <tr><td>形象照拍攝</td><td>服裝、拍攝燈光、人物距離與妝面（見〈<a href="makeup-hair-for-portraits.html">妝髮：多濃、多正式</a>〉）</td></tr>
+            <tr><td>正式晚宴</td><td>服裝、場地、活動時間與攝影需求</td></tr>
           </tbody>
         </table>
         </div>
-        <p>共同點：這些場合多半準備了很久，而<strong>妝髮是行程當天還能調整的少數項目之一</strong>。</p>
+        <p>這些場合通常都需要事前準備，而<strong>妝髮是當天仍可以依實際狀態調整的部分</strong>。</p>
 
         <figure class="article-fig crop45">
           <picture style="display:block"><source type="image/webp" srcset="../assets/gallery/journal/business-hair-makeup-inline-v1-760.webp 760w, ../assets/gallery/journal/business-hair-makeup-inline-v1-1240.webp 1240w" sizes="(max-width: 700px) calc(100vw - 40px), 620px" /><img src="../assets/gallery/journal/business-hair-makeup-inline-v1-1400.jpg" alt="商務妝髮完成後的狀態：髮流收整乾淨，妝面自然" width="1400" height="1867" loading="lazy" /></picture>
-          <figcaption>商務妝髮的成品標準：狀態被整理過，但看不出上過妝。（CHUN.EN 工作現場）</figcaption>
+          <figcaption>B.room 商務妝髮完成後的人物近照。（CHUN.EN 工作現場）</figcaption>
         </figure>
 
         <h2>男士商務妝髮：<em>常見的處理項目</em></h2>
-        <p>男士商務妝髮通常以膚色與膚況整理、眉型、髮型輪廓與控油為主，目標是維持自然、整齊且適合場合的狀態。氣色處理的是把疲態調勻而不是上妝；眉型影響表情的明確度；髮型輪廓與控油則在鏡頭與強光下差別最明顯。</p>
-        <p>需要與否依場合與本人狀態決定；上台、上鏡與被拍頻率高的人，通常比較容易感受到差別。上台、上鏡頻率高的人，通常會把出場前的整理排進固定流程。</p>
+        <p>男士商務妝髮通常會處理膚色不均、油光、眉型與髮型輪廓。妝感以自然為主；需要拍攝時，會再確認額頭、鼻翼等容易反光的位置，以及髮型在燈光下的輪廓。</p>
+        <p>是否需要安排妝髮，仍依場合與本人狀態決定；如果當天需要上台、錄影或大量拍攝，可以再依實際條件評估。</p>
 
         <h2>常見<em>問題</em></h2>
         <div class="faq">
-          <details><summary>商務妝髮和日常妝髮，時間和流程差在哪？<span class="mark">+</span></summary><div class="a">日常妝髮標準服務時間約 90 分鐘，依你的狀態、當天服裝與喜好完成。商務妝髮約 120 分鐘，多出來的時間不是做得比較慢，是先確認場合：對象是誰、距離多遠、有沒有鏡頭、要撐多久，然後把時間集中在氣色、持妝結構與髮型細節上，而不是色彩與風格的嘗試。分類邏輯見〈日常妝髮、商務妝髮、活動妝髮差在哪〉。</div></details>
-          <details><summary>可以到公司或會議地點服務嗎？時間怎麼抓？<span class="mark">+</span></summary><div class="a">可以，商務場合的時間壓力本來就適合到點服務，實際的到點範圍與交通在預約時確認。抓時間的方式是從正式行程往前回推：服務本身約 120 分鐘，再往前留一段著裝與微調的緩衝。把正式開始的時間告訴我們，造型師會回推適合的開始時間；若當天有多個行程，預約時給我們全程時間表，我們會設計能跨場合的持妝結構與快速調整方案。</div></details>
-          <details><summary>我平常自己會化妝，重要場合有必要找專業嗎？<span class="mark">+</span></summary><div class="a">日常妝與商務場合妝的差異在於條件：會議室的燈、鏡頭的解析度、長時間不方便補妝，以及緊張時的出油與脫妝，這些都不是日常妝的設計前提。平常自己化得穩定的人，遇到這幾個條件同時出現時，再考慮交給專業處理。</div></details>
+          <details><summary>商務妝髮和日常妝髮，時間和流程差在哪？<span class="mark">+</span></summary><div class="a">日常妝髮標準服務時間約 90 分鐘，較多依本人喜好、服裝與一般出席場合調整。商務妝髮約 120 分鐘，會再考慮鏡頭、燈光、工作時間與髮型細節。三種服務的分類見〈日常妝髮、商務妝髮、活動妝髮差在哪〉。</div></details>
+          <details><summary>可以到公司或會議地點服務嗎？時間怎麼抓？<span class="mark">+</span></summary><div class="a">可以在勤美店或指定地點服務。若希望在公司、會議地點或拍攝現場完成妝髮，預約時提供正式行程時間與地點，我們會再確認適合的開始時間。</div></details>
+          <details><summary>我平常自己會化妝，重要場合有必要找專業嗎？<span class="mark">+</span></summary><div class="a">不一定需要另外安排。如果平常已經能穩定完成適合工作場合的妝髮，可以自行準備；遇到長時間行程、錄影、拍攝，或當天不方便補妝時，再考慮交給專業造型師。</div></details>
         </div>
 
       </div>
@@ -175,7 +176,7 @@
     "@context": "https://schema.org",
     "@type": "Article",
     "headline": "商務妝髮是什麼？簡報與採訪前怎麼準備",
-    "description": "商務妝髮處理膚況、輪廓、髮型與持妝：遮疲態、留質地、收得剛好，讓人注意到的是你的狀態而不是你的妝。含男士常見的處理項目。",
+    "description": "商務妝髮為簡報、會議、採訪與工作拍攝準備，整理膚況、油光、眉眼、妝面質地、髮型輪廓與持妝，標準服務時間約 120 分鐘。含男士常見的處理項目。",
     "image": "https://chunen.tw/assets/gallery/journal/business-hair-makeup-hero-full-v1-1400.jpg",
     "author": {"@type": "Person", "@id": "https://chunen.tw/author/zoey-wu.html#zoey", "name": "吳惇恩", "alternateName": "Zoey Wu", "jobTitle": "Founder & Brand Director", "image": "https://chunen.tw/assets/images/zoey-author-640.jpg", "url": "https://chunen.tw/author/zoey-wu.html"},
     "publisher": {"@type": "Organization", "@id": "https://chunen.tw/#business", "name": "CHUN.EN 形象美學", "logo": {"@type": "ImageObject", "url": "https://chunen.tw/icon-512.png"}},
@@ -194,9 +195,9 @@
     "@context": "https://schema.org",
     "@type": "FAQPage",
     "mainEntity": [
-      {"@type": "Question", "name": "商務妝髮和日常妝髮，時間和流程差在哪？", "acceptedAnswer": {"@type": "Answer", "text": "日常妝髮標準服務時間約 90 分鐘，依你的狀態、當天服裝與喜好完成。商務妝髮約 120 分鐘，多出來的時間不是做得比較慢，是先確認場合：對象是誰、距離多遠、有沒有鏡頭、要撐多久，然後把時間集中在氣色、持妝結構與髮型細節上，而不是色彩與風格的嘗試。分類邏輯見〈日常妝髮、商務妝髮、活動妝髮差在哪〉。"}},
-      {"@type": "Question", "name": "可以到公司或會議地點服務嗎？時間怎麼抓？", "acceptedAnswer": {"@type": "Answer", "text": "可以，商務場合的時間壓力本來就適合到點服務，實際的到點範圍與交通在預約時確認。抓時間的方式是從正式行程往前回推：服務本身約 120 分鐘，再往前留一段著裝與微調的緩衝。把正式開始的時間告訴我們，造型師會回推適合的開始時間；若當天有多個行程，預約時給我們全程時間表，我們會設計能跨場合的持妝結構與快速調整方案。"}},
-      {"@type": "Question", "name": "我平常自己會化妝，重要場合有必要找專業嗎？", "acceptedAnswer": {"@type": "Answer", "text": "日常妝與商務場合妝的差異在於條件：會議室的燈、鏡頭的解析度、長時間不方便補妝，以及緊張時的出油與脫妝，這些都不是日常妝的設計前提。平常自己化得穩定的人，遇到這幾個條件同時出現時，再考慮交給專業處理。"}}
+      {"@type": "Question", "name": "商務妝髮和日常妝髮，時間和流程差在哪？", "acceptedAnswer": {"@type": "Answer", "text": "日常妝髮標準服務時間約 90 分鐘，較多依本人喜好、服裝與一般出席場合調整。商務妝髮約 120 分鐘，會再考慮鏡頭、燈光、工作時間與髮型細節。三種服務的分類見〈日常妝髮、商務妝髮、活動妝髮差在哪〉。"}},
+      {"@type": "Question", "name": "可以到公司或會議地點服務嗎？時間怎麼抓？", "acceptedAnswer": {"@type": "Answer", "text": "可以在勤美店或指定地點服務。若希望在公司、會議地點或拍攝現場完成妝髮，預約時提供正式行程時間與地點，我們會再確認適合的開始時間。"}},
+      {"@type": "Question", "name": "我平常自己會化妝，重要場合有必要找專業嗎？", "acceptedAnswer": {"@type": "Answer", "text": "不一定需要另外安排。如果平常已經能穩定完成適合工作場合的妝髮，可以自行準備；遇到長時間行程、錄影、拍攝，或當天不方便補妝時，再考慮交給專業造型師。"}}
     ]
   }
   </script>
